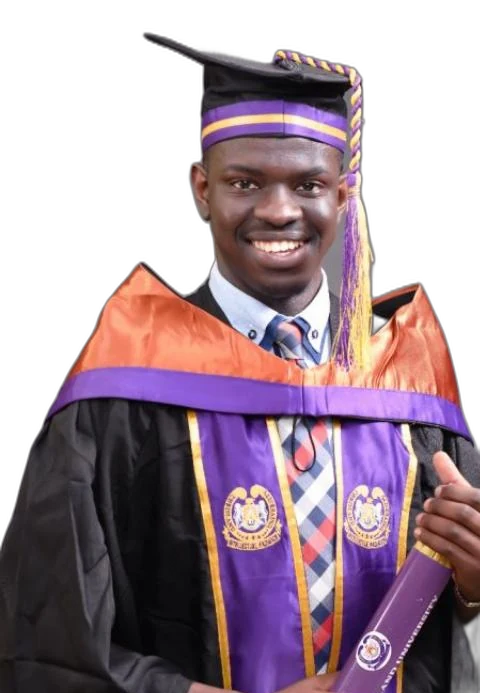
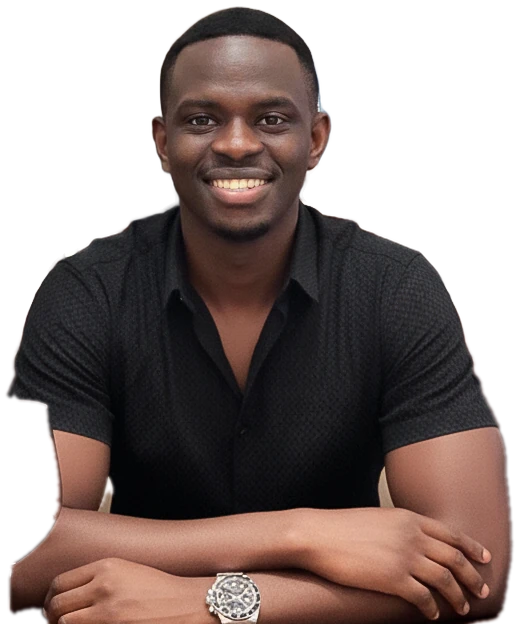
Use new arms-folded portrait in the hero
Swap the graduation photo for Michael's new portrait, cut out of the
restaurant background with a straight bottom edge so it sits flush with
the hero, and size it up slightly on desktop and mobile.

Claude-Session: https://claude.ai/code/session_01VbMjuyG5fUCkvYhCuMmrM8

diff --git a/index.html b/index.html
@@ -53,7 +53,7 @@ nav.top .wrap{display:flex;align-items:center;justify-content:space-between;heig
 .hero{position:relative;overflow:hidden;background:linear-gradient(180deg,#FFFFFF 0%,#FFF4EE 26%,#FFB27F 58%,#FF7A2E 82%,#FF5B14 100%);padding-top:76px}
 .hero-inner{position:relative;max-width:1200px;margin:0 auto;padding:0 24px;min-height:620px}
 .bigname{position:absolute;left:0;right:0;top:40px;text-align:center;font-weight:800;font-size:clamp(56px,11.6vw,170px);line-height:.9;letter-spacing:-.05em;white-space:nowrap;background:linear-gradient(180deg,rgba(255,91,20,.55),rgba(255,91,20,.12) 85%);-webkit-background-clip:text;background-clip:text;color:transparent;user-select:none;pointer-events:none}
-.portrait{position:absolute;left:50%;bottom:0;transform:translateX(-50%);width:min(400px,62vw);z-index:2;filter:drop-shadow(0 20px 40px rgba(120,40,0,.25))}
+.portrait{position:absolute;left:50%;bottom:0;transform:translateX(-50%);width:min(500px,66vw);z-index:2;filter:drop-shadow(0 20px 40px rgba(120,40,0,.25))}
 .hero-copy{position:absolute;left:24px;bottom:56px;z-index:3;max-width:430px}
 .hero-copy h1{color:#fff;font-size:clamp(38px,5vw,62px);font-weight:700;text-shadow:0 2px 24px rgba(160,50,0,.25)}
 .hero-side{position:absolute;right:24px;bottom:64px;z-index:3;max-width:300px;color:#fff}
@@ -194,7 +194,7 @@ footer .wrap{display:flex;justify-content:space-between;gap:12px;flex-wrap:wrap}
   .hero-inner{min-height:640px}
   .bigname{top:24px;font-size:23vw;line-height:.85}
   .bigname span{display:block}
-  .portrait{width:min(330px,82vw);bottom:0}
+  .portrait{width:min(360px,90vw);bottom:0}
   .hero::after{content:"";position:absolute;left:0;right:0;bottom:0;height:200px;background:linear-gradient(180deg,rgba(255,91,20,0),rgba(230,70,0,.85));z-index:2;pointer-events:none}
   .hero-copy{left:24px;right:24px;bottom:28px;max-width:none}
   .hero-copy h1{font-size:40px}
@@ -226,7 +226,7 @@ footer .wrap{display:flex;justify-content:space-between;gap:12px;flex-wrap:wrap}
 <header class="hero" id="home">
   <div class="hero-inner">
     <div class="bigname" aria-hidden="true"><span>Osondu</span> <span>Michael</span></div>
-    <img class="portrait" src="assets/michael.webp" alt="Osondu Michael Charles smiling in his graduation gown" width="480" height="693">
+    <img class="portrait" src="assets/michael.webp" alt="Osondu Michael Charles smiling, arms folded, in a black shirt" width="519" height="624">
     <div class="hero-copy">
       <h1>Design It. Build It. Ship It.</h1>
     </div>
